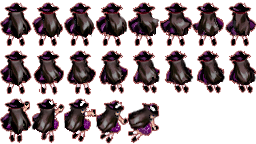
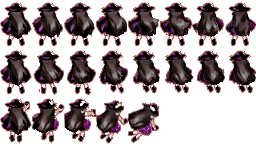
fixing something

diff --git a/LetoilePlayerReskin/files.js b/LetoilePlayerReskin/files.js
@@ -359,7 +359,7 @@
 	"th165/msg14.msg.jdiff": null,
 	"th165/msg22d.msg.jdiff": null,
 	"th165/player/pl00.png": null,
-	"th165/player/pl00/pl00.png": 1380601632,
+	"th165/player/pl00/pl00.png": 1022412531,
 	"th165/player/pl00/pl00b.png": 600162540,
 	"th165/player/pl00b.png": null,
 	"th165/spells.js": null,